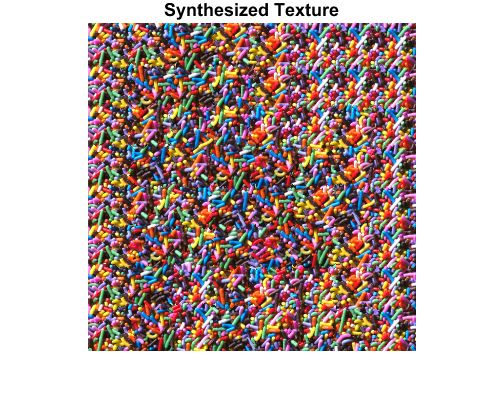
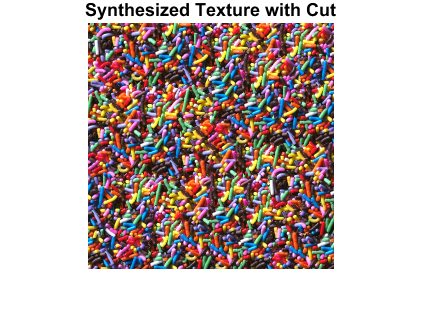
Output Images

diff --git a/overlapping_blocks.m b/overlapping_blocks.m
@@ -40,8 +40,8 @@ function [output_image] = overlapping_blocks(input_texture, output_image_size,pa
                     left_block = reshape(left_block,patch_size*patch_size,1,input_texture_dim);
                     %error = patches - repmat(left_block,1,num_patches);
                     %error = sum(sum(error.^2,1),3);
-                    %overlap_error = patches(size(patches,1)-overlap*patch_size+1:size(patches,1),:,:)-repmat(left_block(size(patches,1)-overlap*patch_size+1:size(patches,1),:,:),1,num_patches);
-                    overlap_error = patches(size(patches,1)-overlap*patch_size+1:size(patches,1),:,:)-repmat(left_block(1:patch_size*overlap,:,:),1,num_patches);
+                    overlap_error = patches(1:patch_size*overlap,:,:)-repmat(left_block(size(patches,1)-overlap*patch_size+1:size(patches,1),:,:),1,num_patches);
+                    %overlap_error = patches(size(patches,1)-overlap*patch_size+1:size(patches,1),:,:)-repmat(left_block(1:patch_size*overlap,:,:),1,num_patches);
 
                     overlap_error = sum(sum(overlap_error.^2,1),3);
                     error = overlap_error;
@@ -62,13 +62,13 @@ function [output_image] = overlapping_blocks(input_texture, output_image_size,pa
                     
                     patches_masked = patches.*(repmat(mask_patches',1,num_patches,input_texture_dim));
                     top_block_masked = top_block.*repmat(mask_top_block',1,1,input_texture_dim);
-                       
+
                     top_block_masked_new = zeros(patch_size*overlap,1,3);
                     patches_masked_new = zeros(patch_size*overlap,num_patches,3);
        
-                    top_block_masked_new(:,:,1)=nonzeros(top_block_masked(:,:,1));
-                    top_block_masked_new(:,:,2)=nonzeros(top_block_masked(:,:,2));
-                    top_block_masked_new(:,:,3)=nonzeros(top_block_masked(:,:,3));
+                    top_block_masked_new(:,:,1)= nonzeros(top_block_masked(:,:,1));
+                    top_block_masked_new(:,:,2)= nonzeros(top_block_masked(:,:,2));
+                    top_block_masked_new(:,:,3)= nonzeros(top_block_masked(:,:,3));
                     
                     patches_masked_new(:,:,1) = reshape(nonzeros(patches_masked(:,:,1)), patch_size*overlap, num_patches);
                     patches_masked_new(:,:,2) = reshape(nonzeros(patches_masked(:,:,2)), patch_size*overlap, num_patches);
@@ -95,9 +95,17 @@ function [output_image] = overlapping_blocks(input_texture, output_image_size,pa
                 %error2 = patches - repmat(left_block,1,num_patches);
                 %error2 = sum(sum(error2.^2,1),3);
                 
-                overlap_error1 = patches(size(patches,1)-overlap*patch_size+1:size(patches,1),:,:)-repmat(left_block(1:patch_size*overlap,:,:),1,num_patches);
+                overlap_error1 = patches(1:patch_size*overlap,:,:)-repmat(left_block(size(patches,1)-overlap*patch_size+1:size(patches,1),:,:),1,num_patches);
+                %overlap_error1 = patches(size(patches,1)-overlap*patch_size+1:size(patches,1),:,:)-repmat(left_block(1:patch_size*overlap,:,:),1,num_patches);
                 overlap_error1 = sum(sum(overlap_error1.^2,1),3);
                 
+                index = 1:patch_size*patch_size;
+                mask_top_block = (patch_size-overlap <= mod(index-1,patch_size));
+                mask_patches = (mod(index-1,patch_size) < overlap);
+                %display(size(repmat(mask',1,num_patches,input_texture_dim)));\
+                
+                patches_masked = patches.*(repmat(mask_patches',1,num_patches,input_texture_dim));
+                top_block_masked = top_block.*repmat(mask_top_block',1,1,input_texture_dim);
                 top_block_masked_new = zeros(patch_size*overlap,1,3);
                 patches_masked_new = zeros(patch_size*overlap,num_patches,3);
 

diff --git a/myMainScript.m b/myMainScript.m
@@ -1,10 +1,11 @@
 clc;
 clear;
 tic;
-input_image = imread('./images/Brick.0001.png');
+input_image = imread('./images/fruits1.bmp');
+input_image(input_image==0) = 1;
 input_image_dim = size(size(input_image),2);
-patch_size = 48;
-overlap = 8;
+patch_size = 36;
+overlap = 6;
 tolerance = 0.25;
 
 
@@ -26,7 +27,7 @@ title('Input Texture');
 % imshow(output);
 % title('Synthesized Texture Without Cut');
 
-output_cut = overlapping_blocks(im2double(input_image), [6,6],patch_size,overlap,tolerance,true);
+output_cut = overlapping_blocks(im2double(input_image), [8,8],patch_size,overlap,tolerance,true);
 figure(4);
 imshow(output_cut);
 title('Synthesized Texture with Cut');
